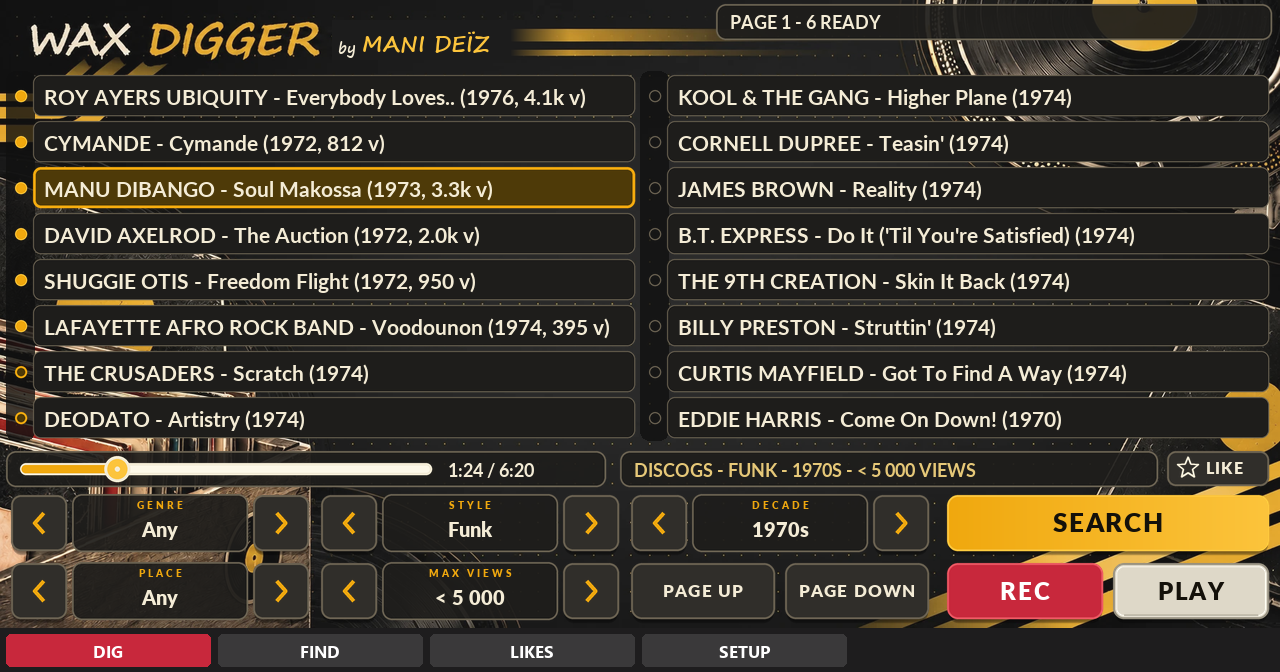
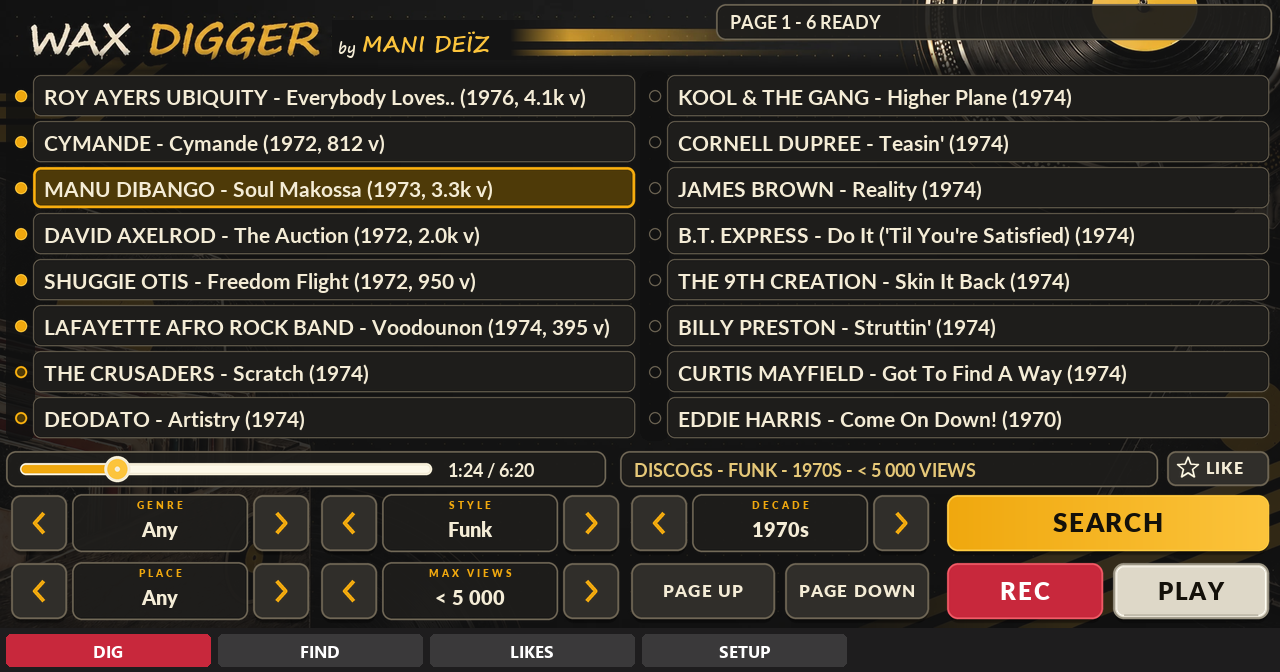
Install: create the VST2 Plugins folder if missing

diff --git a/index.html b/index.html
@@ -132,7 +132,7 @@ footer a:hover{color:var(--amber)}
 <p class="phase">Once, on your computer</p>
 <div class="steps three">
  <article><h3>Download</h3><p>Get the Hub zip above and unzip it.</p></article>
- <article><h3>Copy</h3><p>Put the folder found inside “VST2 Plugins” into the “VST2 Plugins” folder at the root of your SD card or USB drive.</p></article>
+ <article><h3>Copy</h3><p>Put the folder found inside “VST2 Plugins” into the “VST2 Plugins” folder at the root of your SD card or USB drive. No “VST2 Plugins” folder there? Create it yourself, with exactly that name: the MPC does not make it.</p></article>
  <article><h3>Switch on</h3><p>On the MPC: Preferences, Enhancements (Beta). Enable Enhancements and External Plugin Support. Restart.</p></article>
 </div>
 <p class="phase">Then, on the MPC</p>
